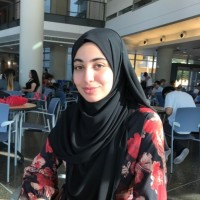
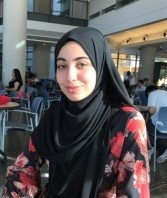
fix: stretched images

diff --git a/src/assets/team.ts b/src/assets/team.ts
@@ -3,7 +3,7 @@ import MARY from "./images/mary.jpg";
 import ATHENA from "./images/athena.jpg";
 import MANJOT from "./images/manjot.jpg";
 import INTISER from "./images/Intiser.png";
-import ALISSON from "./images/alisson.png";
+import ALISSON from "./images/alisson.jpg";
 import MARTHEN from "./images/marty.jpg";
 import JET from "./images/jet.jpg";
 import JOSEPH from "./images/joseph.jpg";
